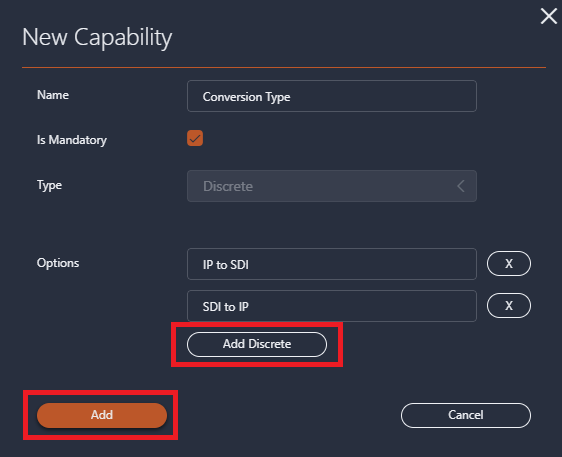
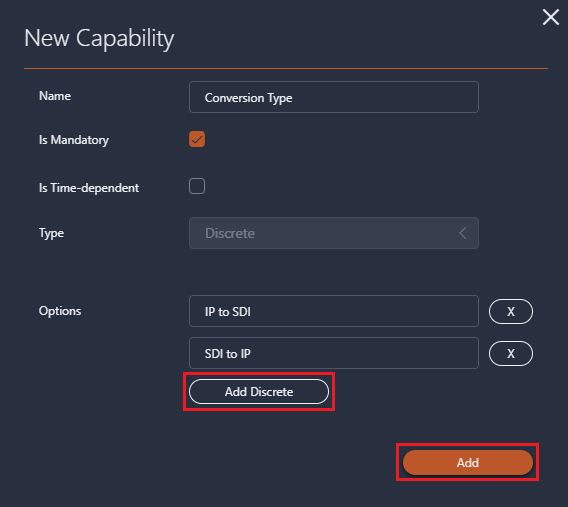
Update MediaOps time dependent capabilities docs

diff --git a/solutions/standard_solutions/MediaOps/Tutorials/Tutorial_Resource_Studio_Capabilities_And_Capacities.md b/solutions/standard_solutions/MediaOps/Tutorials/Tutorial_Resource_Studio_Capabilities_And_Capacities.md
@@ -65,21 +65,15 @@ Expected duration: 15 minutes
 
 1. In the **Capabilities** section on the right, click the **Edit** button.
 
-1. In the newly opened *Manage Capabilities* window, click the **+** button to add a capability.
+1. In the newly opened *Manage Capabilities* window, from the `- Add Capability -` dropdown, select the **Conversion Type** option.
 
    ![Manage Capabilities](~/solutions/images/Resource_Studio_Manage_Capabilities.png)
 
-1. In the dropdown box, select **Conversion Type**.
-
-1. Click the **Values** button.
-
-1. In the *DISCRETES* section, click the **+** button.
-
-1. In the dropdown, select the **SDI to IP** option.
+1. In the new `- Add Option -` dropdown, select the **SDI to IP** option.
 
    ![Manage Capabilities - Discretes](~/solutions/images/Resource_Studio_Manage_Capabilities_Discretes.png)
 
-1. Click **Back**, and then **Apply**.
+1. Click **Update**.
 
 1. Select the **NewTek 001** resource.
 
